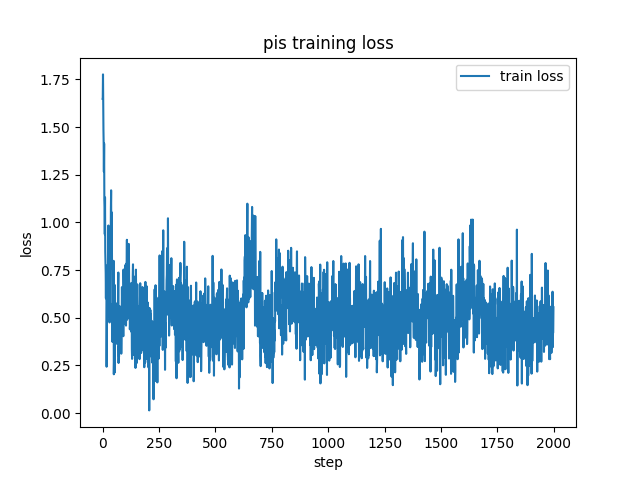
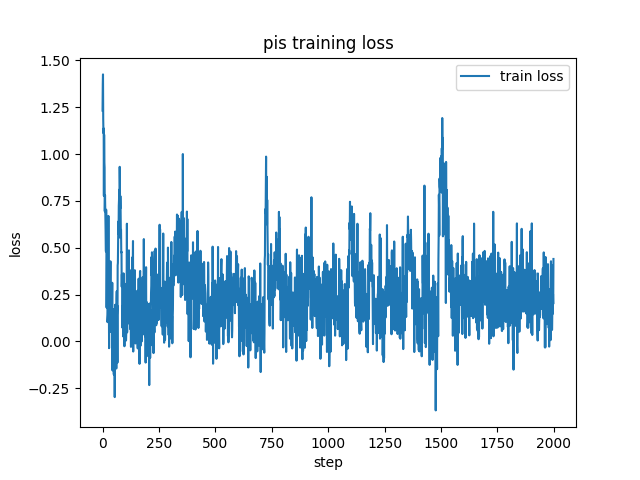
debug

diff --git a/mcjax/process/algo.py b/mcjax/process/algo.py
@@ -112,8 +112,8 @@ class BaseAlgorithm(ABC):
 
             elif condition == 'grad_score':
                 gradp = target.grad_batch(y)  
-                # normed = gradp / (jnp.std(gradp, axis=0, keepdims=True) + 1e-5)
-                normed = gradp # test without batch normalization
+                normed = gradp / (jnp.std(gradp, axis=0, keepdims=True) + 1e-5)
+                # normed = gradp # test without batch normalization
                 return nn1 + nn2 * normed
 
             else:
